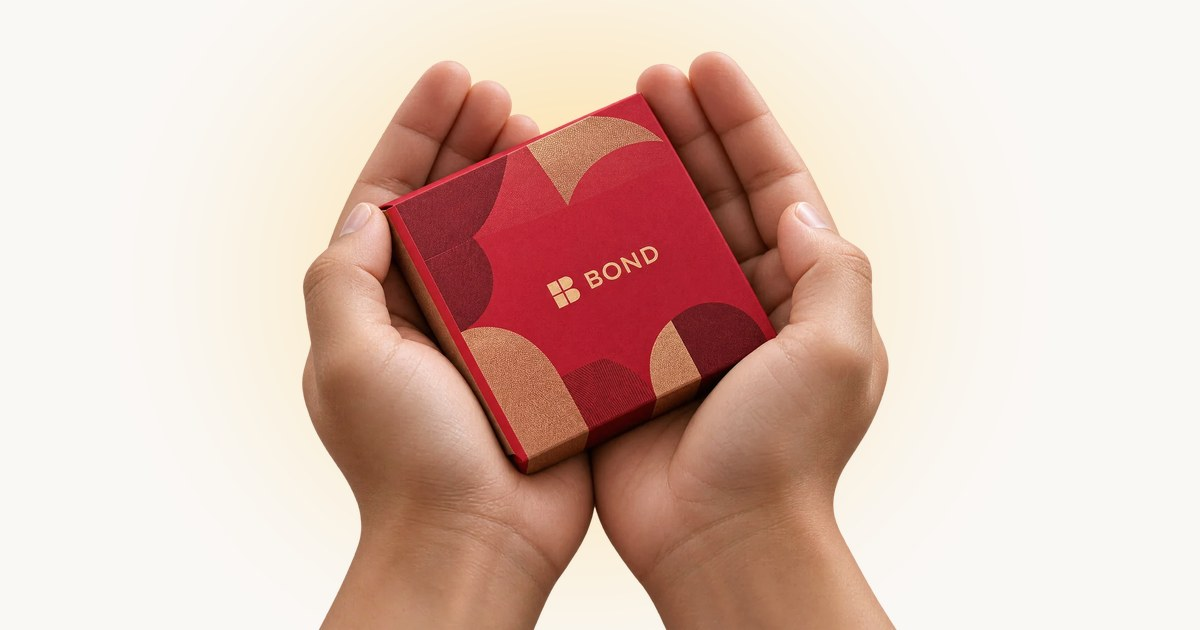
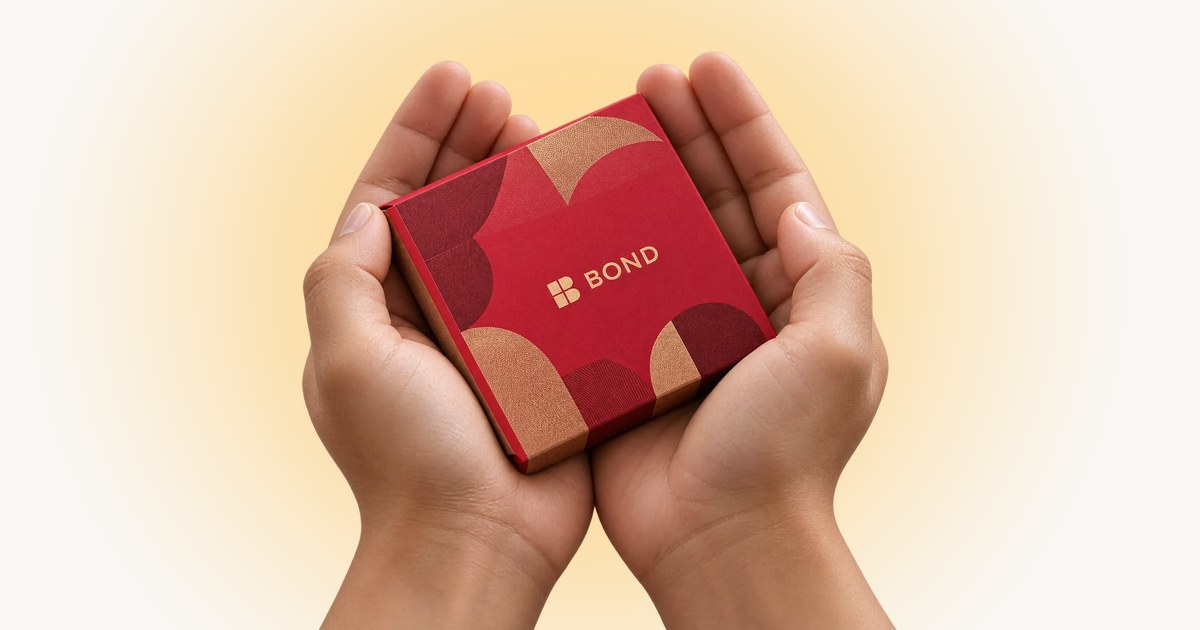
Ảnh xem trước: hào quang sáng hơn
Claude-Session: https://claude.ai/code/session_01HS1DfBWRuWPnpXQLZtUEUG

Changed region(s): [[0.0925, 0.0, 0.8633, 0.9651], [0.4317, 0.8143, 0.555, 1.0]]

diff --git a/index.html b/index.html
@@ -14,14 +14,14 @@
     <meta property="og:description" content="Quà tặng doanh nghiệp, bao bì và vật phẩm quảng cáo. Đưa dấu ấn thương hiệu vào từng món quà trao tay." />
     <meta property="og:type" content="website" />
     <meta property="og:url" content="https://www.bond.gift/" />
-    <meta property="og:image" content="https://www.bond.gift/og-image.jpg?v=2" />
+    <meta property="og:image" content="https://www.bond.gift/og-image.jpg?v=3" />
     <meta property="og:image:width" content="1200" />
     <meta property="og:image:height" content="630" />
     <meta property="og:image:alt" content="Hai bàn tay nâng hộp quà Tết đỏ BOND" />
     <meta name="twitter:card" content="summary_large_image" />
     <meta name="twitter:title" content="BOND | Brands, in hand." />
     <meta name="twitter:description" content="Quà tặng doanh nghiệp, bao bì và vật phẩm quảng cáo. Đưa dấu ấn thương hiệu vào từng món quà trao tay." />
-    <meta name="twitter:image" content="https://www.bond.gift/og-image.jpg?v=2" />
+    <meta name="twitter:image" content="https://www.bond.gift/og-image.jpg?v=3" />
     <link rel="icon" type="image/png" href="/favicon.png" />
     <link rel="apple-touch-icon" href="/apple-touch-icon.png" />
     <link rel="preload" href="/fonts/be-vietnam-pro-latin-400-normal.woff2" as="font" type="font/woff2" crossorigin />
